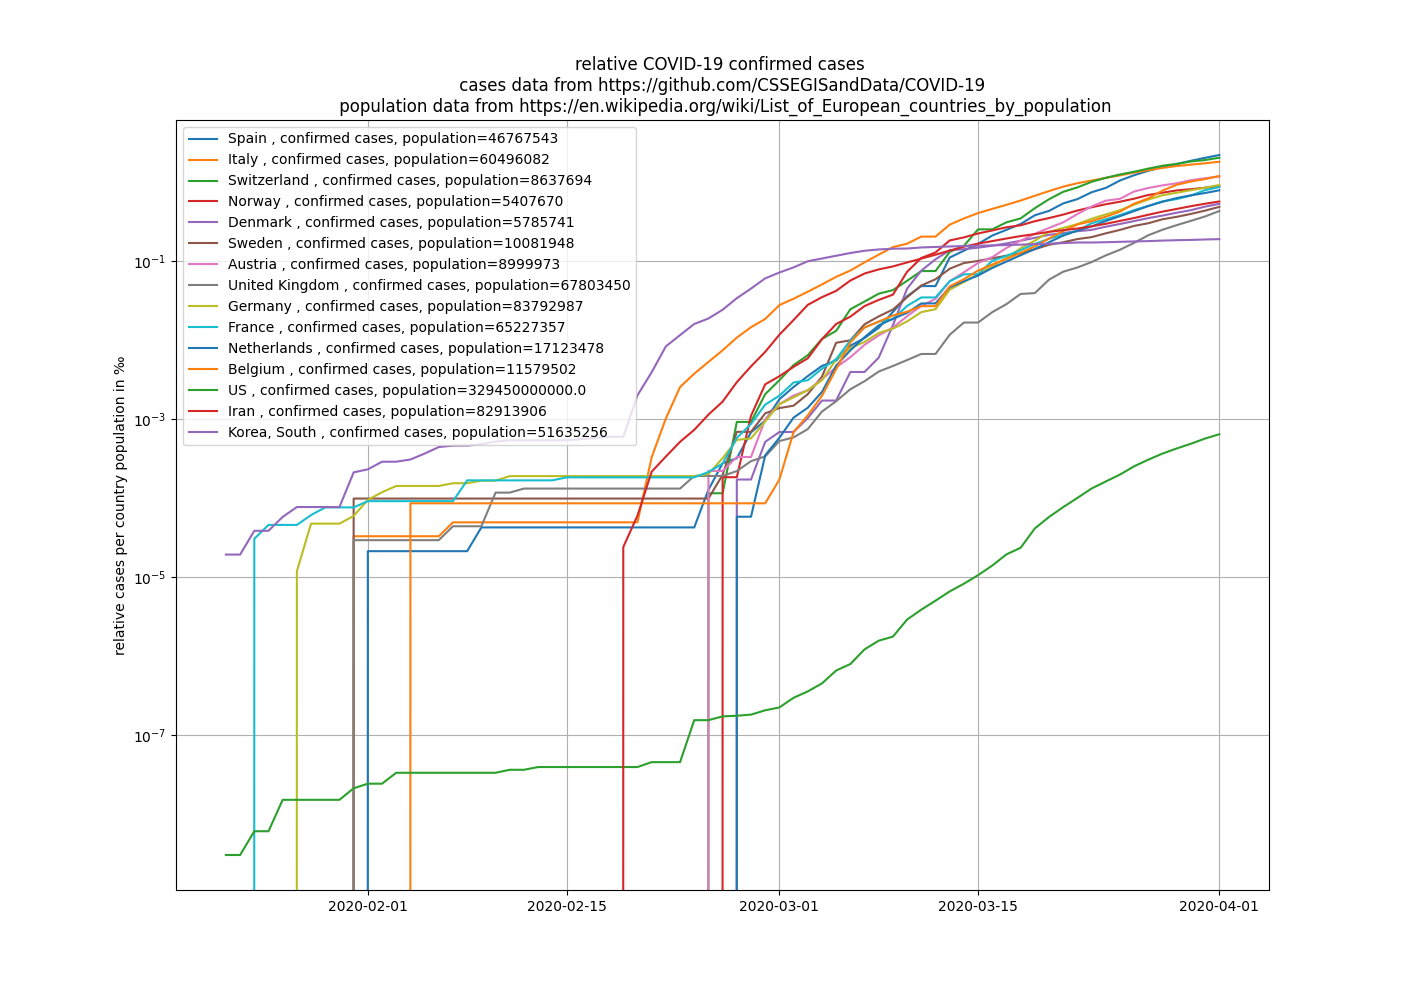
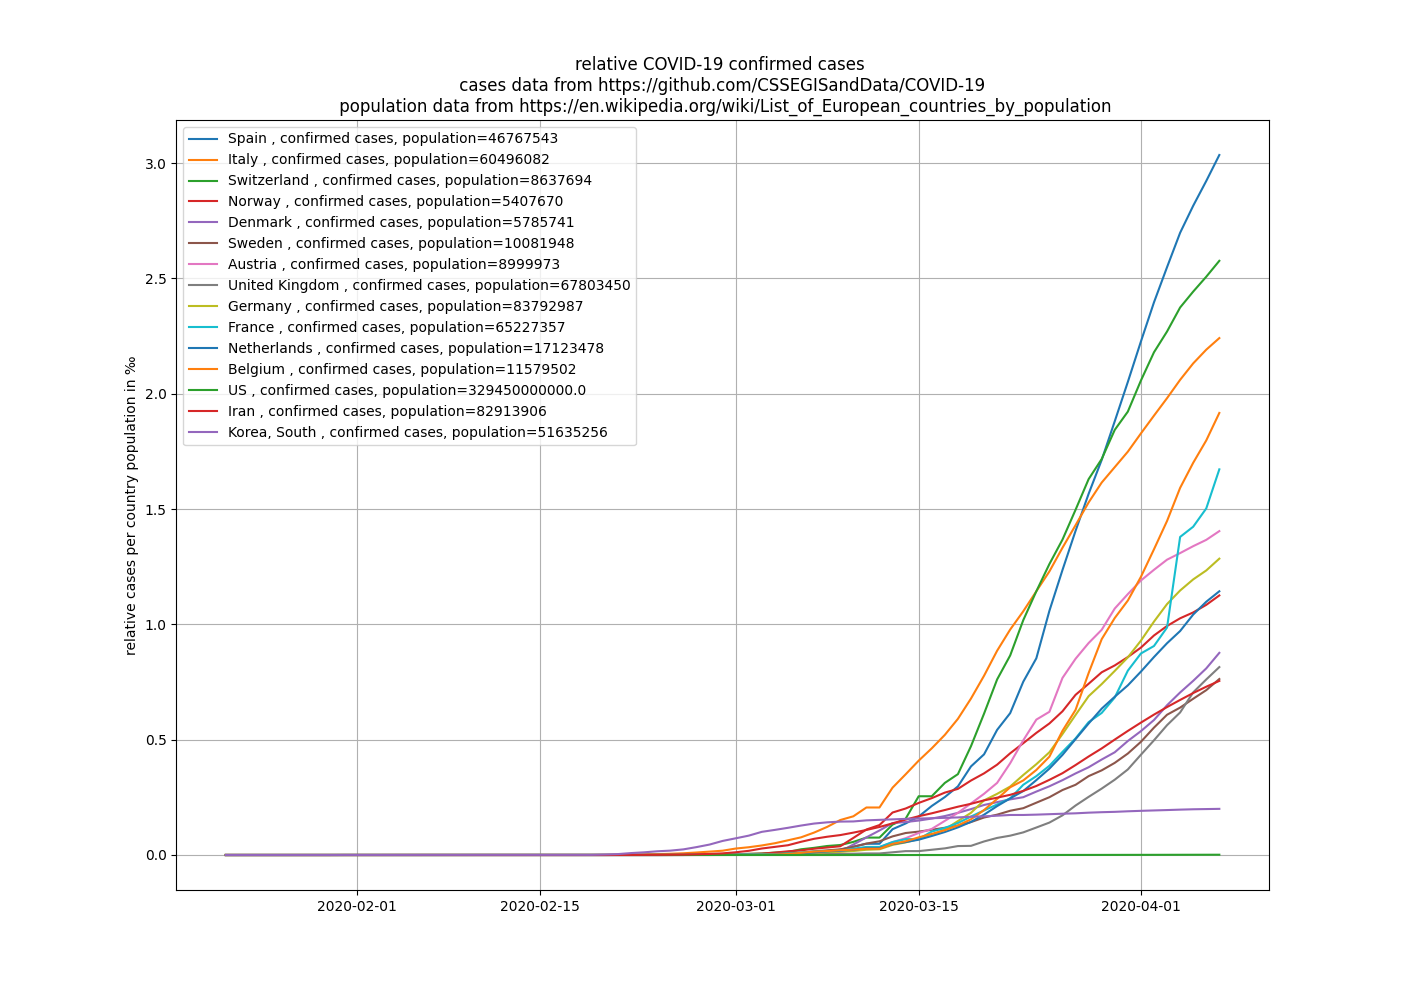
daily update

diff --git a/simple_visualization.py b/simple_visualization.py
@@ -113,7 +113,7 @@ class Covid(object):
             ax.set_title(title)
             ax.set_ylabel('relative cases per country population in ‰')
             ax.grid(True)
-            plt.yscale('log')
+            #plt.yscale('log')
             plt.legend(loc='upper left')
             plt.savefig('output/' + filename)
             plt.close('all')
@@ -139,7 +139,7 @@ class Covid(object):
             ax.set_title(title)
             ax.set_ylabel('absolute cases')
             ax.grid(True)
-            plt.yscale('log')
+            #plt.yscale('log')
 
             plt.legend(loc='upper left')
             plt.savefig('output/' + filename)
